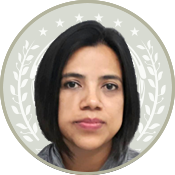
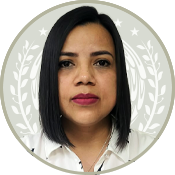
Actualización Conócenos.

diff --git a/conocenos/estructura/tribunal-superior-de-justicia/organos-jurisdiccionales/juzgados-por-distrito/saltillo/index.html b/conocenos/estructura/tribunal-superior-de-justicia/organos-jurisdiccionales/juzgados-por-distrito/saltillo/index.html
@@ -262,33 +262,52 @@
 </ol>
 </nav>
 
-<p><img alt="Juzgado Primero de Primera Instancia en Materia Civil" src="centro-de-justicia-civil-y-familiar-saltillo.jpg"></p>
-<h2>Juzgado Primero de Primera Instancia en Materia Civil</h2>
-<p><i class="fa fa-map-marker"></i> Domicilio: Centro de Justicia, Periferico Luis Echeverria No. 5402 Parque Metropolitano, C.P. 25284 Saltillo, Coahuila de Zaragoza (México).<br>
+<!-- ![Juzgado Primero de Primera Instancia en Materia Civil](centro-de-justicia-civil-y-familiar-saltillo.jpg)
+
+## Juzgado Primero de Primera Instancia en Materia Civil
+
+<i class="fa fa-map-marker"></i> Domicilio: Centro de Justicia, Periferico Luis Echeverria No. 5402 Parque Metropolitano, C.P. 25284 Saltillo, Coahuila de Zaragoza (México).<br>
 <i class="fa fa-phone"></i> Teléfono: (844) 777 45 18<br>
-<i class="fa fa-map-marker"></i> <a href="https://goo.gl/maps/6DQHarBbpmxtx7iw9"> Google Maps</a></p>
-<h2>Juzgado Segundo de Primera Instancia en Materia Civil</h2>
-<p><i class="fa fa-map-marker"></i> Domicilio: Centro de Justicia, Periferico Luis Echeverria No. 5402 Parque Metropolitano, C.P. 25284 Saltillo, Coahuila de Zaragoza (México).<br>
+<i class="fa fa-map-marker"></i> <a href="https://goo.gl/maps/6DQHarBbpmxtx7iw9"> Google Maps</a>
+
+## Juzgado Segundo de Primera Instancia en Materia Civil
+
+<i class="fa fa-map-marker"></i> Domicilio: Centro de Justicia, Periferico Luis Echeverria No. 5402 Parque Metropolitano, C.P. 25284 Saltillo, Coahuila de Zaragoza (México).<br>
 <i class="fa fa-phone"></i> Teléfono: (844) 777 45 18<br>
-<i class="fa fa-map-marker"></i> <a href="https://goo.gl/maps/6DQHarBbpmxtx7iw9"> Google Maps</a></p>
-<h2>Juzgado Tercero de Primera Instancia en Materia Civil</h2>
-<p><i class="fa fa-map-marker"></i> Domicilio: Centro de Justicia, Periferico Luis Echeverria No. 5402 Parque Metropolitano, C.P. 25284 Saltillo, Coahuila de Zaragoza (México).<br>
+<i class="fa fa-map-marker"></i> <a href="https://goo.gl/maps/6DQHarBbpmxtx7iw9"> Google Maps</a>
+
+## Juzgado Tercero de Primera Instancia en Materia Civil
+
+<i class="fa fa-map-marker"></i> Domicilio: Centro de Justicia, Periferico Luis Echeverria No. 5402 Parque Metropolitano, C.P. 25284 Saltillo, Coahuila de Zaragoza (México).<br>
 <i class="fa fa-phone"></i> Teléfono: (844) 777 45 18<br>
-<i class="fa fa-map-marker"></i> <a href="https://goo.gl/maps/6DQHarBbpmxtx7iw9"> Google Maps</a></p>
-<h2>Juzgado Cuarto de Primera Instancia en Materia Civil</h2>
-<p><i class="fa fa-map-marker"></i> Domicilio: Centro de Justicia, Periferico Luis Echeverria No. 5402 Parque Metropolitano, C.P. 25284 Saltillo, Coahuila de Zaragoza (México).<br>
+<i class="fa fa-map-marker"></i> <a href="https://goo.gl/maps/6DQHarBbpmxtx7iw9"> Google Maps</a>
+
+## Juzgado Cuarto de Primera Instancia en Materia Civil
+
+<i class="fa fa-map-marker"></i> Domicilio: Centro de Justicia, Periferico Luis Echeverria No. 5402 Parque Metropolitano, C.P. 25284 Saltillo, Coahuila de Zaragoza (México).<br>
 <i class="fa fa-phone"></i> Teléfono: (844) 777 45 18<br>
-<i class="fa fa-map-marker"></i> <a href="https://goo.gl/maps/6DQHarBbpmxtx7iw9"> Google Maps</a></p>
-<h2>Juzgado Quinto de Primera Instancia en Materia Civil con Especialización Hipotecaria</h2>
-<p><i class="fa fa-map-marker"></i> Dirección: Bulevar Los Fundadores 7435, Col. Ex Hacienda San José de los Cerritos CP 25294.  Saltillo, Coahuila de Zaragoza (México).<br></p>
-<h2>Juzgado de Primera Instancia en Materia Civil Auxiliar con Especialización Ambiental Saltillo</h2>
-<p><i class="fa fa-map-marker"></i> Domicilio: Centro de Justicia, Periferico Luis Echeverria No. 5402 Parque Metropolitano,<br>
+<i class="fa fa-map-marker"></i> <a href="https://goo.gl/maps/6DQHarBbpmxtx7iw9"> Google Maps</a> 
+
+## Juzgado de Primera Instancia en Materia Civil Auxiliar con Especialización Ambiental Saltillo
+
+<i class="fa fa-map-marker"></i> Domicilio: Centro de Justicia, Periferico Luis Echeverria No. 5402 Parque Metropolitano,<br>
  C.P. 25284 Saltillo, Coahuila de Zaragoza (México)<br>
-<i class="fa fa-phone"></i> Teléfono: (844) 777 45 18<br> </p>
-<h2>Juzgado de Primera Instancia en Materia Civil Auxiliar en el Estado de Coahuila de Zaragoza</h2>
-<p><i class="fa fa-map-marker"></i> Domicilio: Centro de Justicia, Periferico Luis Echeverria No. 5402 Parque Metropolitano,<br>
+<i class="fa fa-phone"></i> Teléfono: (844) 777 45 18<br> 
+
+## Juzgado de Primera Instancia en Materia Civil Auxiliar en el Estado de Coahuila de Zaragoza
+
+<i class="fa fa-map-marker"></i> Domicilio: Centro de Justicia, Periferico Luis Echeverria No. 5402 Parque Metropolitano,<br>
  C.P. 25284 Saltillo, Coahuila de Zaragoza (México)<br>
-<i class="fa fa-phone"></i> Teléfono: (844) 777 45 18<br> </p>
+<i class="fa fa-phone"></i> Teléfono: (844) 777 45 18<br> -->
+
+<h2>Juzgado único en Materia Civil Saltillo</h2>
+<p><i class="fa fa-map-marker"></i> Domicilio: Bulevar Los Fundadores 7435, Col. Ex Hacienda San José de los Cerritos <br>
+CP 25294. Saltillo, Coahuila de Zaragoza (México).<br>
+<i class="fa fa-phone"></i>Teléfono: (844) 777 45 68<br></p>
+<h2>Juzgado de Primera Instancia en Materia Civil con Especialización Hipotecaria Saltillo</h2>
+<p>&lt;<i class="fa fa-map-marker"></i> Domicilio: Bulevar Los Fundadores 7435, Col. Ex Hacienda San José de los Cerritos <br>
+CP 25294. Saltillo, Coahuila de Zaragoza (México).<br>
+<i class="fa fa-phone"></i>Teléfono: (844) 777 45 68<br></p>
 <h2>Juzgado Primero de Primera Instancia en Materia Familiar</h2>
 <p><i class="fa fa-map-marker"></i> Domicilio: Centro de Justicia, Periferico Luis Echeverria No. 5402 Parque Metropolitano, C.P. 25284 Saltillo, Coahuila de Zaragoza (México).<br></p>
 <!--<i class="fa fa-phone"></i> Teléfono: 844-194-5070 Ext. 6913<br> -->

diff --git a/conocenos/estructura/tribunal-superior-de-justicia/organos-jurisdiccionales/juzgados-por-materia/juzgados-civiles/index.html b/conocenos/estructura/tribunal-superior-de-justicia/organos-jurisdiccionales/juzgados-por-materia/juzgados-civiles/index.html
@@ -261,6 +261,14 @@
 </ol>
 </nav>
 
+<h2>Juzgado único en Materia Civil Saltillo</h2>
+<p><i class="fa fa-map-marker"></i> Domicilio: Bulevar Los Fundadores 7435, Col. Ex Hacienda San José de los Cerritos <br>
+CP 25294. Saltillo, Coahuila de Zaragoza (México).<br>
+<i class="fa fa-phone"></i>Teléfono: (844) 777 45 68<br></p>
+<h2>Juzgado de Primera Instancia en Materia Civil con Especialización Hipotecaria Saltillo</h2>
+<p>&lt;<i class="fa fa-map-marker"></i> Domicilio: Bulevar Los Fundadores 7435, Col. Ex Hacienda San José de los Cerritos <br>
+CP 25294. Saltillo, Coahuila de Zaragoza (México).<br>
+<i class="fa fa-phone"></i>Teléfono: (844) 777 45 68<br></p>
 <h2>Juzgado Primero de Primera Instancia en Materia Civil Monclova</h2>
 <p><i class="fa fa-map-marker"></i> Domicilio: Avenida Ciudad Deportiva No. 1500 Esquina Av. Estadio.<br>
  Fraccionamiento Ciudad Deportiva, C.P. 25750 Monclova, Coahuila.<br>
@@ -281,32 +289,6 @@
 <p><i class="fa fa-map-marker"></i> Domicilio: Centro de Justicia, Boulevard Republica No. 1906 Colonia Tecnologico,<br>
  C.P. 26080 Piedras Negras, Coahuila.<br>
 <i class="fa fa-phone"></i> Teléfono: (878) 271 02 50<br> </p>
-<h2>Juzgado Primero de Primera Instancia en Materia Civil Saltillo</h2>
-<p><i class="fa fa-map-marker"></i> Domicilio: Centro de Justicia, Periferico Luis Echeverria No. 5402 Parque Metropolitano,<br>
- C.P. 25284 Saltillo, Coahuila.<br>
-<i class="fa fa-phone"></i> Teléfono: (844) 777 45 18<br> </p>
-<h2>Juzgado Segundo de Primera Instancia en Materia Civil Saltillo</h2>
-<p><i class="fa fa-map-marker"></i> Domicilio: Centro de Justicia, Periferico Luis Echeverria No. 5402 Parque Metropolitano,<br>
- C.P. 25284 Saltillo, Coahuila.<br>
-<i class="fa fa-phone"></i> Teléfono: (844) 777 45 18<br></p>
-<h2>Juzgado Tercero de Primera Instancia en Materia Civil Saltillo</h2>
-<p><i class="fa fa-map-marker"></i> Domicilio: Centro de Justicia, Periferico Luis Echeverria No. 5402 Parque Metropolitano,<br>
- C.P. 25284 Saltillo, Coahuila.<br>
-<i class="fa fa-phone"></i> Teléfono: (844) 777 45 18<br> </p>
-<h2>Juzgado Cuarto de Primera Instancia en Materia Civil Saltillo</h2>
-<p><i class="fa fa-map-marker"></i> Domicilio: Centro de Justicia, Periferico Luis Echeverria No. 5402 Parque Metropolitano,<br>
- C.P. 25284 Saltillo, Coahuila.<br>
-<i class="fa fa-phone"></i> Teléfono: (844) 777 45 18<br> </p>
-<h2>Juzgado Quinto de Primera Instancia en Materia Civil con Especialización Hipotecaria Saltillo</h2>
-<p><i class="fa fa-map-marker"></i> Dirección: Bulevar Los Fundadores 7435, Col. Ex Hacienda San José de los Cerritos <br> CP 25294.  Saltillo, Coahuila de Zaragoza.<br></p>
-<h2>Juzgado de Primera Instancia en Materia Civil Auxiliar con Especialización Ambiental Saltillo</h2>
-<p><i class="fa fa-map-marker"></i> Domicilio: Centro de Justicia, Periferico Luis Echeverria No. 5402 Parque Metropolitano,<br>
- C.P. 25284 Saltillo, Coahuila.<br>
-<i class="fa fa-phone"></i> Teléfono: (844) 777 45 18<br> </p>
-<h2>Juzgado de Primera Instancia en Materia Civil Auxiliar en el Estado de Coahuila de Zaragoza</h2>
-<p><i class="fa fa-map-marker"></i> Domicilio: Centro de Justicia, Periferico Luis Echeverria No. 5402 Parque Metropolitano,<br>
- C.P. 25284 Saltillo, Coahuila.<br>
-<i class="fa fa-phone"></i> Teléfono: (844) 777 45 18<br> </p>
 <h2>Juzgado Primero de Primera Instancia en Materia Civil Torreón</h2>
 <p><i class="fa fa-map-marker"></i> Domicilio: Palacio de Justicia, Avenida de las Fuentes Cruce con Calle Comerciantes Colonia La Merced,<br>
  C.P. 27276 Torreón, Coahuila.<br>
